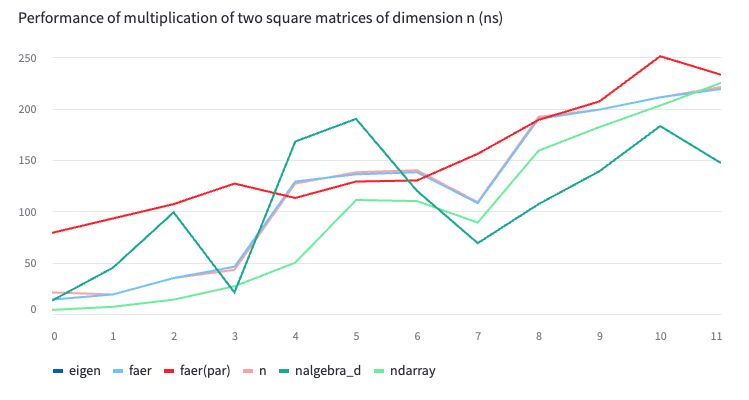
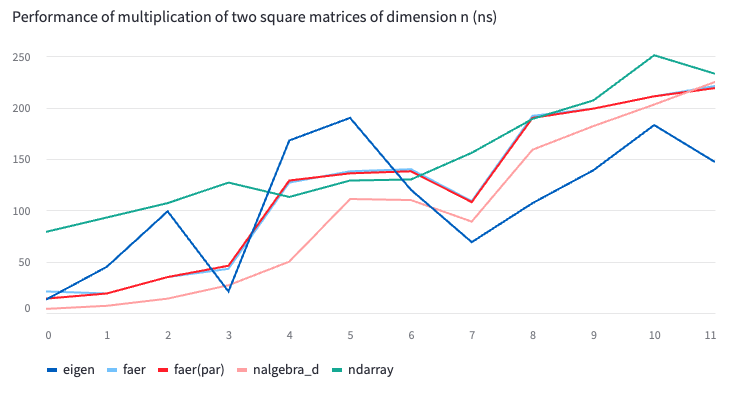
fixed f32 matrix graph

diff --git a/streamlit.py b/streamlit.py
@@ -1,10 +1,10 @@
 import streamlit as st
 import pandas as pd
 
-fileToRead = "data/f64triangularInv.csv"
+fileToRead = "data/f32matrix.csv"
 Data = pd.read_csv(fileToRead)
 
-st.write("Performance of computing A^-1 where A is a square triangular matrix with dimension n (ns)")
+st.write("Performance of multiplication of two square matrices of dimension n (ns)")
 st.line_chart(data = Data)
 
 
